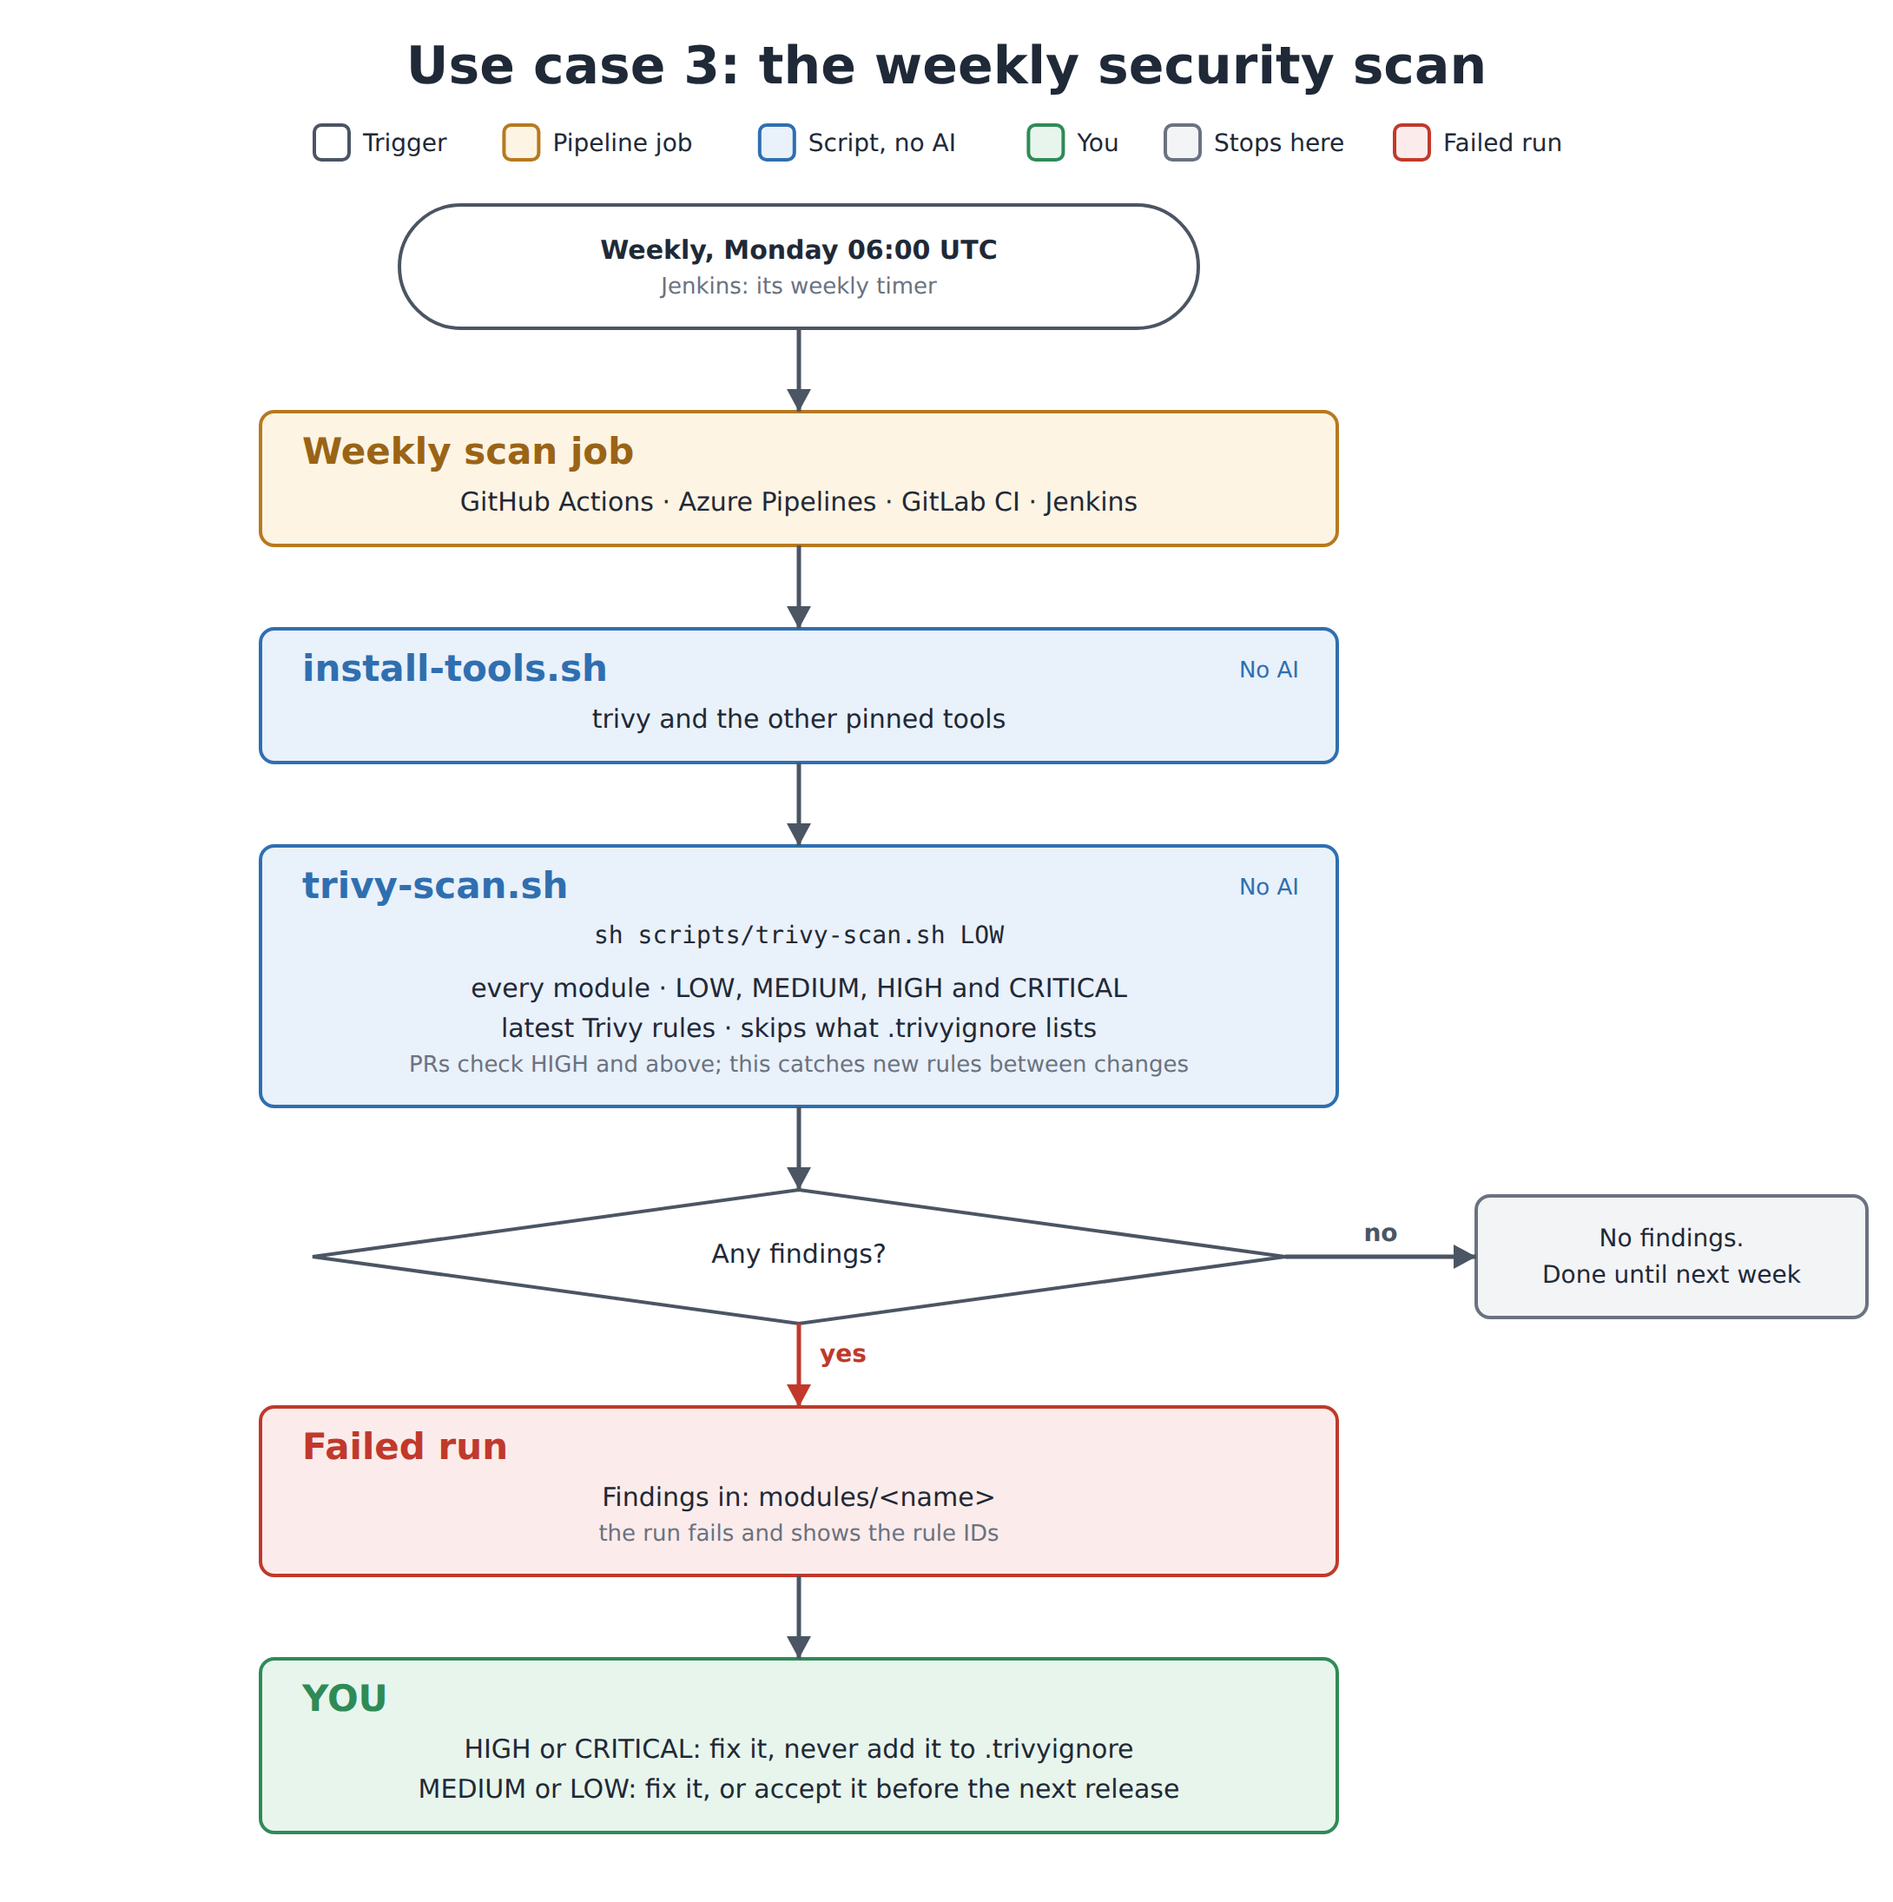
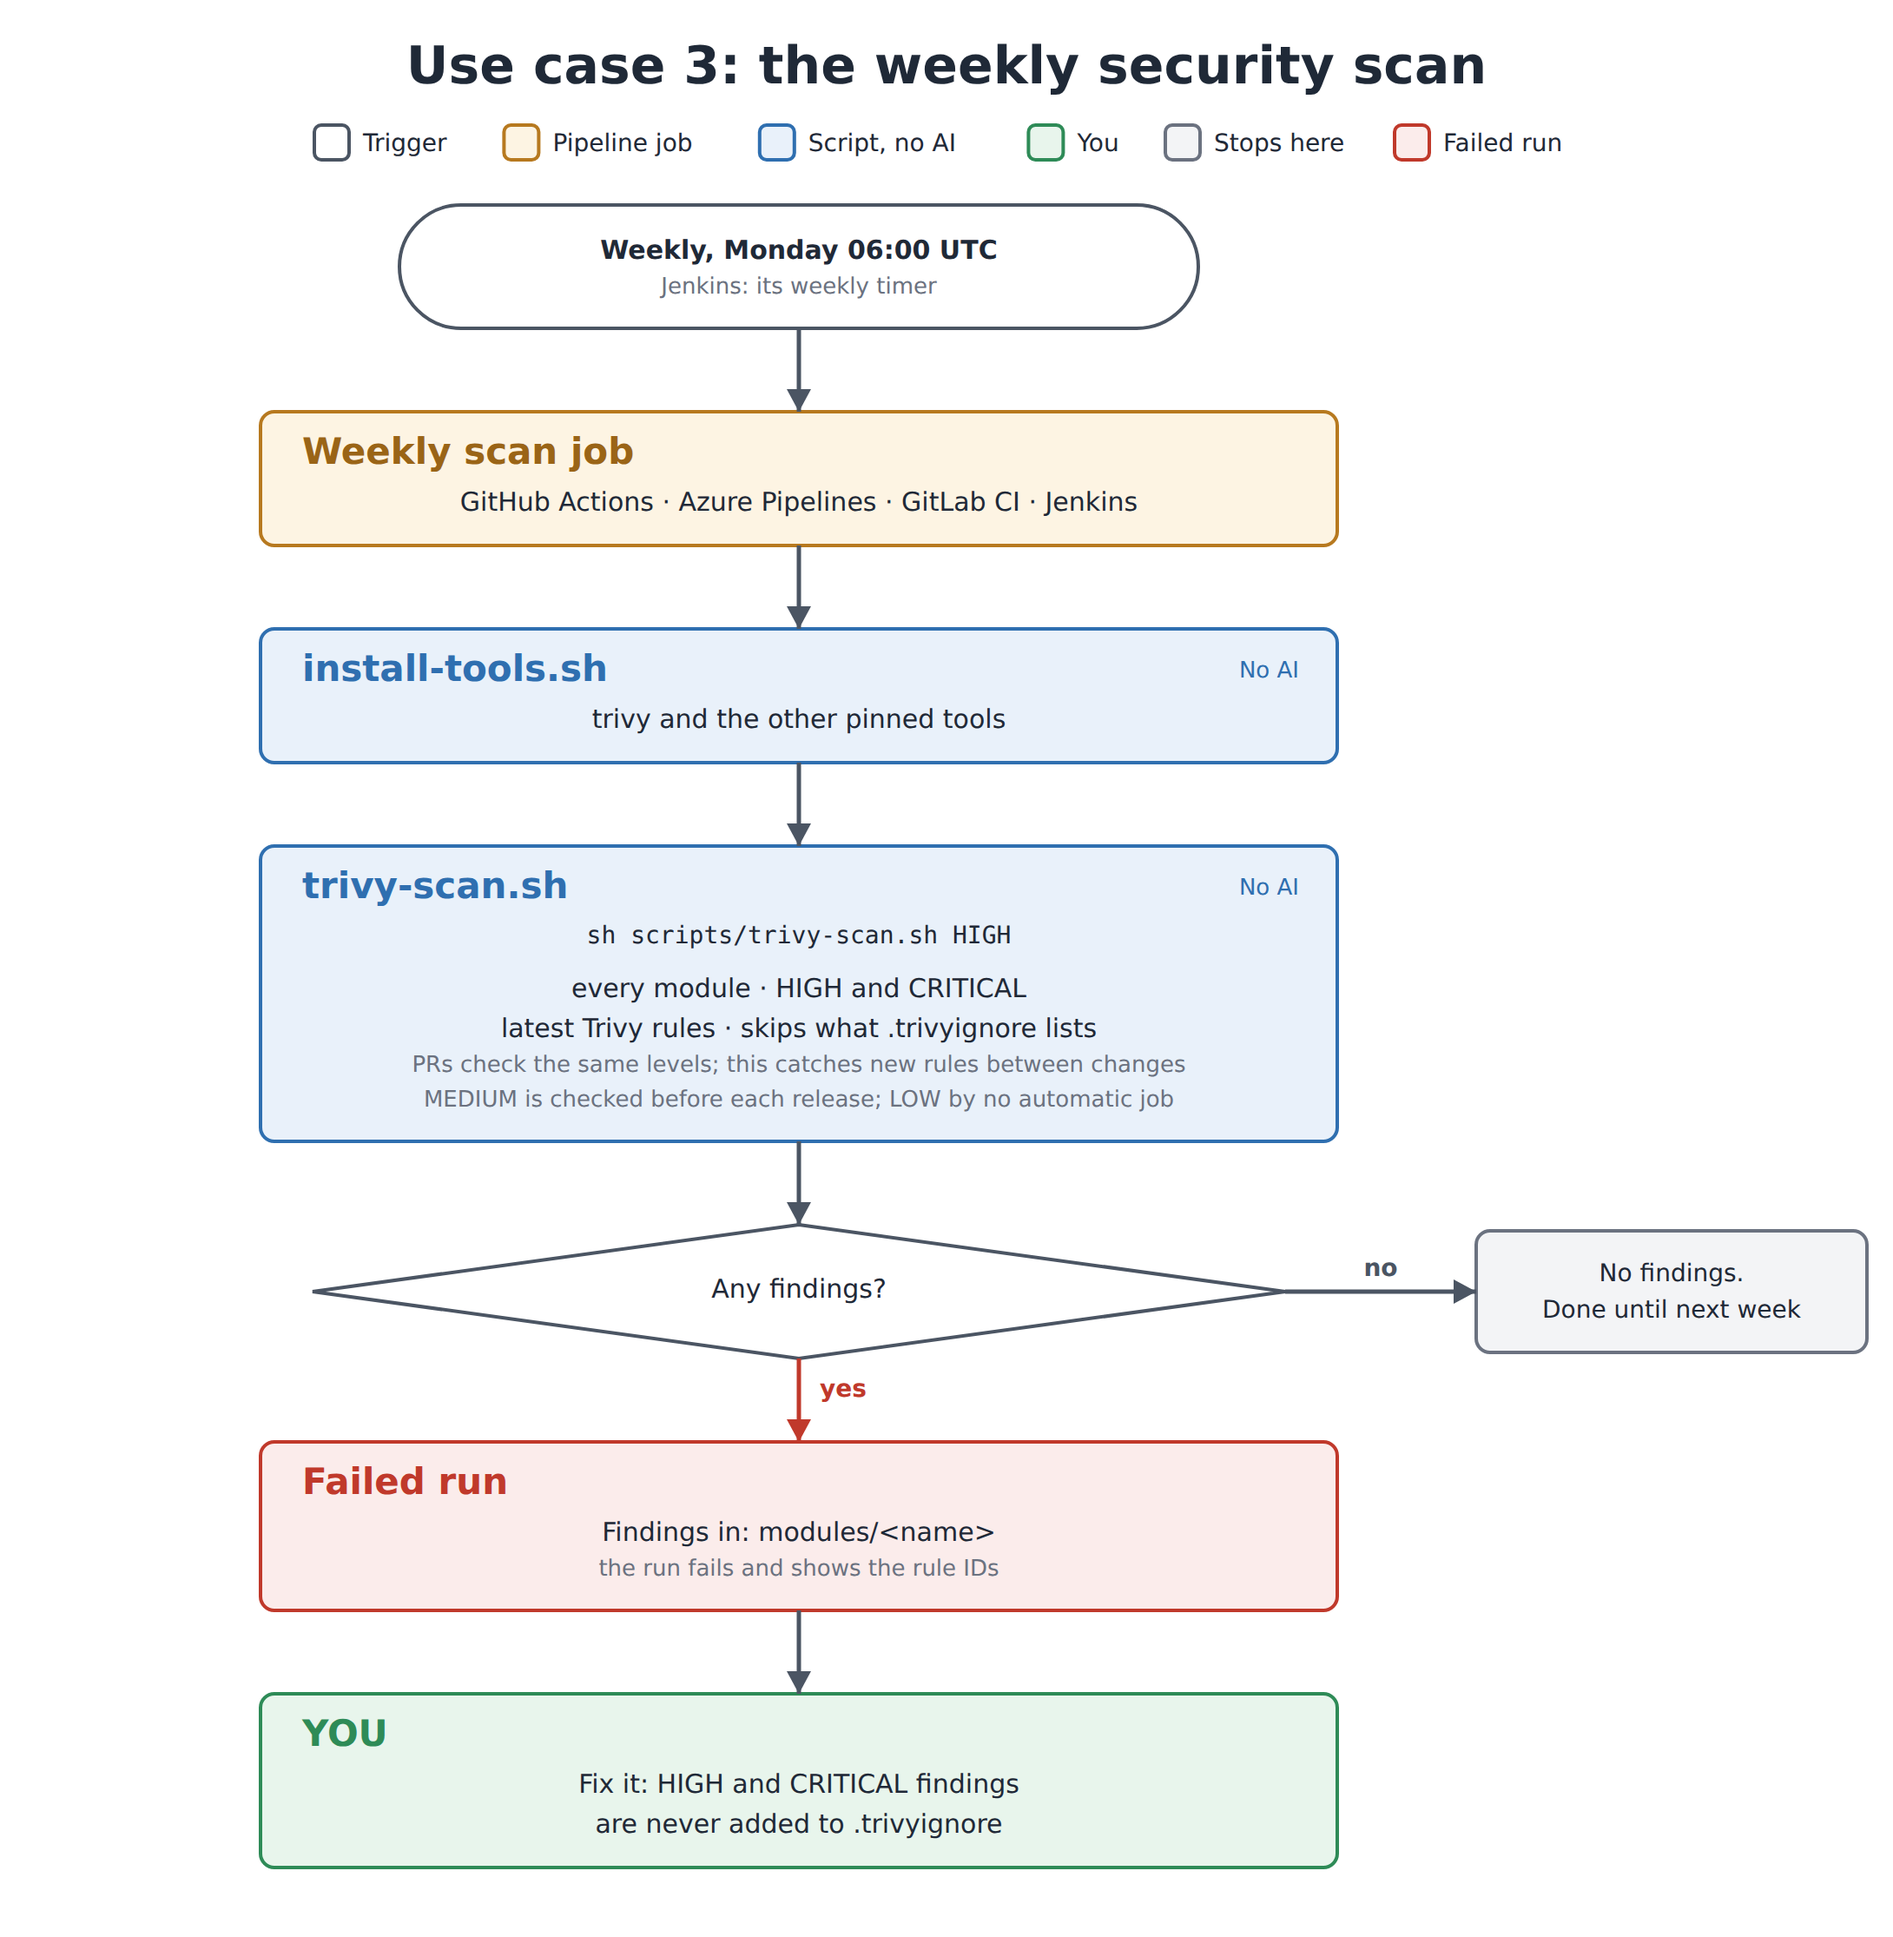
fix: run the weekly trivy scan at high and critical
The weekly scan on all four platforms now runs trivy-scan.sh HIGH
(HIGH and CRITICAL) instead of LOW, which failed every week on
findings below the release gate. MEDIUM stays enforced by the
release check before each tag.

diff --git a/blueprint/history/fixes/run-the-weekly-trivy-scan-at-high-and-critical.md b/blueprint/history/fixes/run-the-weekly-trivy-scan-at-high-and-critical.md
@@ -1,0 +1,91 @@
+# Fix: Run the weekly Trivy scan at HIGH and CRITICAL
+
+**Type:** Fix
+**Status:** verified
+**Branch:** fix/run-the-weekly-trivy-scan-at-high-and-critical
+
+## The problem
+
+The user asked for the weekly security scan to run at HIGH and CRITICAL. Today all
+four platforms run `sh scripts/trivy-scan.sh LOW` on the weekly schedule:
+
+- `.github/workflows/ci.yml:35` (`weekly-scan` job)
+- `.azure-pipelines/ci.yml:44` (`weekly_scan` job)
+- `.gitlab-ci.yml:30` (`weekly-scan` job)
+- `Jenkinsfile:112` ("Weekly scan" stage)
+
+At LOW the scan fails every week, on findings that are below the release gate:
+`aks`, `storage-account` and `virtual-machine` all have LOW or MEDIUM findings, such
+as AZU-0066 and AZU-0067 on `aks`. A scan that is always red stops being read.
+Checked on 2026-11-04: `trivy config --severity HIGH,CRITICAL modules` exits 0.
+
+## The fix
+
+- In all four pipeline files, change the weekly scan to
+  `sh scripts/trivy-scan.sh HIGH`, which scans HIGH and CRITICAL. Keep the jobs,
+  schedules and tool install steps as they are.
+- `AGENTS.md`, Commands, the "Trivy at a severity and above" note: the weekly
+  schedule runs `HIGH`; before tagging, run `MEDIUM`.
+- `docs/scripts.md`:
+  - Use case 3: the Mermaid diagram, the text and the reference table say `HIGH`
+    in place of `LOW`.
+  - The text should explain the purpose: Verify on each PR also scans HIGH and
+    above, while the weekly run picks up new HIGH and CRITICAL rules between
+    changes. MEDIUM is checked before each release.
+- Regenerate `docs/scripts-uc3-weekly-scan.png` and `docs/scripts-overview.png`
+  with the existing generator, so the pictures match the text.
+- No change to `scripts/trivy-scan.sh`, `verify.sh`, `release-check.sh` or
+  `.trivyignore`. The release gate stays MEDIUM.
+
+Must not break: four-platform parity, the release check's MEDIUM scan, Verify, or
+the weekly scan's existing triggers (GitHub and Azure schedules, the GitLab
+pipeline schedule, the Jenkins timer).
+
+Trade-off: LOW and MEDIUM findings no longer show up weekly. MEDIUM is still
+enforced by the release check before every tag. LOW is no longer checked by any
+automatic job. The rule for HIGH and CRITICAL (fix, never ignore) is unchanged.
+
+## Build steps
+
+- [x] 1. **Switch the weekly scan to HIGH on all four platforms and update the docs.**
+  - The four pipeline files.
+  - The `AGENTS.md` Commands note.
+  - The `docs/scripts.md` text, Mermaid diagram and table.
+  - The two regenerated PNGs.
+
+  **Done when:**
+  - `grep -rn "trivy-scan.sh" .github .azure-pipelines .gitlab-ci.yml Jenkinsfile`
+    shows `HIGH` for every weekly scan and `MEDIUM` only in release checks.
+  - The YAML files parse.
+  - `sh scripts/trivy-scan.sh HIGH` prints `No findings.`
+  - `sh scripts/verify.sh` prints `All checks passed.`
+
+## Verify
+
+- `sh scripts/trivy-scan.sh HIGH`: `No findings.`, so the weekly scan would be green
+  today.
+- `sh scripts/trivy-scan.sh MEDIUM aks`: `No findings.` The release gate is
+  unchanged.
+- After merging, a manual run of the GitHub weekly job isn't possible, because its
+  only trigger is the schedule. The next Monday 06:00 UTC run shows the result in
+  Actions.
+
+## Notes for the AI
+
+- CI files are Claude's to write, with four-platform parity. No `modules/` code
+  changes in this fix.
+- The PNG generator lives in this session's scratchpad (`svg/gen.py` and
+  `render.sh`). Change only the use case 3 and overview text that says LOW.
+- Out of scope:
+  - Adding a `workflow_dispatch` trigger.
+  - Changing which findings are accepted.
+  - Fixing the existing LOW and MEDIUM findings.
+
+
[1 lines of base64/hex data omitted]
+
+## Try it now
+
+1. Run `sh scripts/trivy-scan.sh HIGH`. Expect `No findings.`
+2. Run `grep -rn "trivy-scan.sh" .github .azure-pipelines .gitlab-ci.yml Jenkinsfile`.
+   Expect `HIGH` on all four lines.

diff --git a/docs/scripts.md b/docs/scripts.md
@@ -122,13 +122,15 @@ sequenceDiagram
 
 ```mermaid
 flowchart LR
-  s(["Monday schedule"]) --> t["install-tools.sh"] --> l["trivy-scan.sh LOW"]
+  s(["Monday schedule"]) --> t["install-tools.sh"] --> l["trivy-scan.sh HIGH"]
   l -- "No findings." --> ok["green"]
-  l -- "Findings in: modules/x" --> red["red run: fix it, or record a<br/>reviewed MEDIUM/LOW acceptance"]
+  l -- "Findings in: modules/x" --> red["red run: fix it;<br/>HIGH and CRITICAL are never ignored"]
 ```
 
-A pull request is checked at HIGH and above. This scan uses the latest Trivy rules at
-LOW and above, so it catches new rules that arrive between changes.
+Verify checks every pull request at HIGH and above. This scan repeats that check
+each week with the latest Trivy rules, so a new HIGH or CRITICAL rule shows up
+between changes. MEDIUM is checked before each release by `release-check.sh`; no
+automatic job checks LOW.
 
 ## Use case 4: releasing a module
 
@@ -213,7 +215,7 @@ the patch. A person reviews the draft PR and decides whether to merge it.
 | `install-tools.sh` | `sh scripts/install-tools.sh` | Downloads pinned tflint, trivy and terraform-docs into `.tools/bin`. POSIX sh and wget only, so it runs in the `hashicorp/terraform` image | A download fails | Developers; Verify, weekly scan, release and agent jobs on all platforms |
 | `install-terraform.sh` | `sh scripts/install-terraform.sh 1.17.0` | Downloads one Terraform version into `.tools/bin`, for jobs with python3 but no Terraform | A download fails | Monthly check on GitLab, Azure Pipelines and Jenkins |
 | `verify.sh` | `sh scripts/verify.sh [module]` | For each module: `fmt`, `init`, `validate`, `tflint`, Trivy HIGH+, terraform-docs check, `terraform test`. With a module name, checks only that one and skips Trivy | Any check fails; all failures are listed at the end | Developers; every PR and push to main; `release-check.sh`; the agent job, before and after the agent |
-| `trivy-scan.sh` | `sh scripts/trivy-scan.sh <LOW\|MEDIUM\|HIGH\|CRITICAL> [module]` | Trivy at that severity and above, using `.trivyignore` | Any finding at or above the severity | Weekly scan (`LOW`); `release-check.sh` (`MEDIUM`); developers before tagging |
+| `trivy-scan.sh` | `sh scripts/trivy-scan.sh <LOW\|MEDIUM\|HIGH\|CRITICAL> [module]` | Trivy at that severity and above, using `.trivyignore` | Any finding at or above the severity | Weekly scan (`HIGH`); `release-check.sh` (`MEDIUM`); developers before tagging |
 | `release-check.sh` | `RELEASE_TAG=aks/v1.0.0 sh scripts/release-check.sh` | Checks the tag format, that the module exists and that the tag is on main, runs `verify.sh` and `trivy-scan.sh MEDIUM` for that module, then writes `release-notes.md` | Bad tag, missing module, tag not on main, or a failing check | Release pipeline on a pushed `*/v*` tag |
 | `check-registry.py` | `python3 scripts/check-registry.py [github\|gitlab\|azure]` | Compares `.azurerm-reviewed-version` with the registry, writes `azurerm-report.md`, release notes and `azurerm-affected.json`, validates every module, and opens, updates or closes one `azurerm-update` issue | Network or API error, or a module no longer validates | Monthly check on all four platforms |
 | `check-bot-patch.sh` | `sh scripts/check-bot-patch.sh <patch>` | Gate on the agent's patch: only regular text files under `modules/`; no symlinks, binaries, renames, mode changes or hidden paths. Never applies the patch. An empty patch passes | The patch breaks any of those rules or git can't read it | `publish-bot-pr.sh`; developers testing a patch |

diff --git a/AGENTS.md b/AGENTS.md
@@ -333,7 +333,7 @@ Terraform module library; no dev server or build. Run from the repo root unless 
   terraform-docs and test for every module; reports all failures at the end; needs
   network access)
 - Trivy at a severity and above: `sh scripts/trivy-scan.sh <LOW|MEDIUM|HIGH|CRITICAL> [module]`
-  (the weekly schedule runs `LOW`; before tagging, run `MEDIUM`)
+  (the weekly schedule runs `HIGH`; before tagging, run `MEDIUM`)
 - Release check: `RELEASE_TAG=<module>/vX.Y.Z sh scripts/release-check.sh` (needs the
   tag to exist; pipelines and agents never create, move or delete tags)
 - azurerm update check: `python3 scripts/check-registry.py [github|gitlab|azure]`
